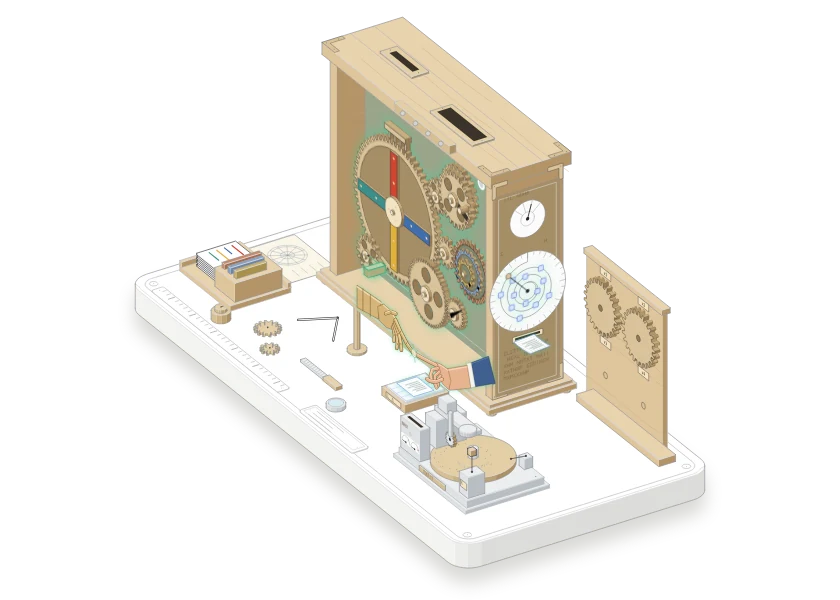
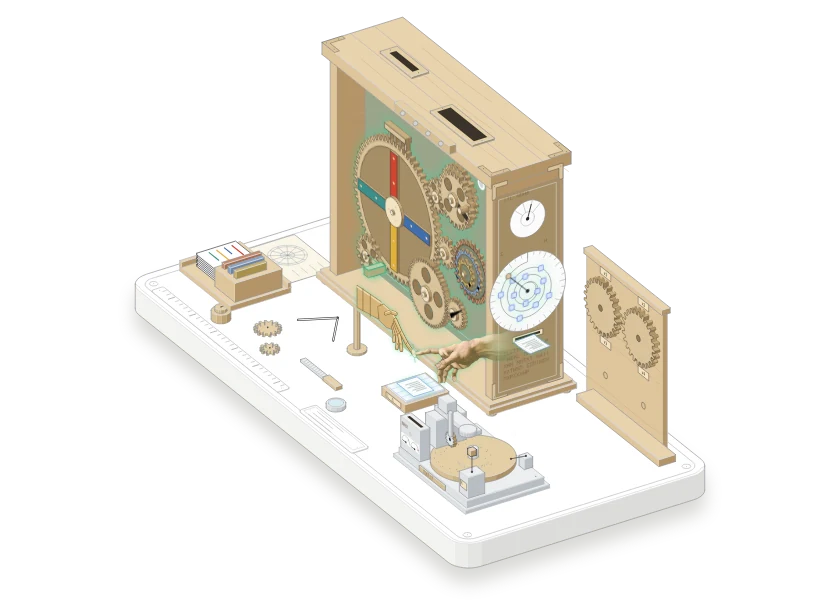
Lecteur VRE : la main de l'agent (Human-in-the-Loop) est la main détourée de la fresque, posée à plat face au spectateur
Figure SVG et machine 3D (panneau toujours face à la caméra), ancrée au bout de l'index ; la main vectorielle et le modèle 3D de l'agent sont supprimés. Correctif 3D : une feuille entièrement entrée dans une fente est masquée.

Claude-Session: https://claude.ai/code/session_01LkExX7823QtQq9wQQ73LZ2

Changed region(s): [[0.4952, 0.54, 0.619, 0.66]]

diff --git a/figures/vrestudio-anticythere.html b/figures/vrestudio-anticythere.html
@@ -179,8 +179,7 @@ body{margin:0;background:var(--anatomy-page);color:var(--anatomy-text);font:14px
 .ak-stamp-ok{fill:rgba(53,169,116,.28);stroke:#35a974;stroke-width:.55}.ak-stamp-bad{fill:rgba(210,69,47,.28);stroke:#d2452f;stroke-width:.55}.ak-stamp-fix{fill:rgba(224,163,58,.32);stroke:#e0a33a;stroke-width:.55}
 .ak-lightgrid{fill:none;stroke:#9db6ea;stroke-width:.3}
 .mat-light{--anatomy-face:#eef5ff;--anatomy-top:#f5f9ff;--anatomy-lit-top:#f5f9ff;--anatomy-shade-0:#c9d8ee;--anatomy-shade-1:#d6e2f3;--anatomy-shade-2:#e2ebf8;--anatomy-shade-3:#eef5ff}
-.hd-skin{fill:#e7b48f;stroke:#8c5a3c;stroke-width:.4;stroke-linejoin:round}.hd-bronze{fill:#d6b57a;stroke:#6e5228;stroke-width:.4;stroke-linejoin:round}
-.hd-sleeve{fill:#3f5f8f;stroke:#22324d;stroke-width:.4;stroke-linejoin:round}.hd-cuff{fill:#f4f3ee;stroke:#9a9890;stroke-width:.35}
+.hd-bronze{fill:#d6b57a;stroke:#6e5228;stroke-width:.4;stroke-linejoin:round}
 .hd-ol-skin,.hd-fill-skin,.hd-hi-skin,.hd-ol-bronze,.hd-fill-bronze,.hd-hi-bronze,.hd-hi-sleeve{fill:none;stroke-linecap:round;stroke-linejoin:round}
 .hd-ol-skin{stroke:#8c5a3c}.hd-fill-skin{stroke:#e7b48f}.hd-hi-skin{stroke:#f6d3b8}.hd-ol-bronze{stroke:#6e5228}.hd-fill-bronze{stroke:#d6b57a}.hd-hi-bronze{stroke:#f1dcae}.hd-hi-sleeve{stroke:#5b7db0}
 .hd-nail-skin{fill:#f8dccb;stroke:#b98a6c;stroke-width:.2}.hd-nail-bronze{fill:#efdcb0;stroke:#8a6a36;stroke-width:.2}.hd-rivet{fill:#8a6a36}
@@ -971,13 +970,9 @@ const HANDS = {
     palm: [[-11.6, 8.6], [-15, 10.2], [-20, 10.4], [-24, 7.4], [-23, 2.2], [-18, 1.6], [-14.5, 2.6], [-12.6, 5.4]],
     arm: [[-21.6, 10.6], [-38, 9.4], [-38, 0.2], [-23.6, 2.4]],
   },
-  human: {
-    fingers: [{ w: 1.7, pts: [[17.5, -0.6], [15.4, -3], [15.8, -5.6]] }, { w: 1.9, pts: [[16.6, 0.6], [13.6, -2.4], [13.6, -5.6], [14.8, -6.8]] },
-      { w: 2, pts: [[15.6, 1.6], [11.8, -0.8], [10.6, -4], [11.8, -5.8]] }, { w: 2.2, pts: [[18.5, -1.6], [14.4, -4.6], [10.4, -6.2], [8.2, -6.4]] }, { w: 2.1, pts: [[14.6, 2.4], [9.6, 1.5], [4.8, 0.7], [0, 0]] }],
-    palm: [[13.8, 3.4], [18, 4.4], [22.5, 4.6], [24.5, 0.8], [23, -3.6], [19.6, -3.4], [16.5, -2.2], [14, 0.2]],
-    arm: [[22, 4.6], [35.5, 12.6], [38, 4.4], [23.5, -3.6]], cuff: [[35, 13.2], [38.2, 15], [41, 6.4], [37.6, 4.2]], sleeve: [[38.2, 15], [50, 23.5], [54.5, 14.5], [41, 6.4]],
-  },
 };
+// la main de l'agent est l'image détourée assets/figures/main-agent.webp (360 × 192 px, index au pixel tip), k unités par pixel
+const AGENT = { w: 360, h: 192, tip: [0, 91], k: 0.17 };
 const HANDS_K = 1.4;                                      // échelle des deux mains
 for (const H of Object.values(HANDS)) for (const [k, v] of Object.entries(H)) {
   if (k === 'fingers') v.forEach((f) => { f.w *= HANDS_K; f.pts = f.pts.map(([u, z]) => [u * HANDS_K, z * HANDS_K]); });
@@ -1149,9 +1144,9 @@ function oldInFlight(o) {
   return { c: bez([g.u, FY, ABOVE], [g.u + 30, FY + 4, ABOVE + 30], [bu - 10, BOARD.y + 6, bz + 70], [bu, BOARD.y, bz], e) };
 }
 
-return { TAU, CASE, MECH_Y, FY, GEARS, phases, DIAL, CELLS, TRAY, CORPUS_TOP, DIV, GAUGE, LEVER, HATCH, BOARD, LID_Z, ABOVE, T, LOOP_T, TS, STATIONS, stationAt, SHEETS, sheetPose, sheetRows, sheetTrail, stateAt, pinInCase, newInFlight, oldInFlight, handsAt, stampOf, HANDS };
+return { TAU, CASE, MECH_Y, FY, GEARS, phases, DIAL, CELLS, TRAY, CORPUS_TOP, DIV, GAUGE, LEVER, HATCH, BOARD, LID_Z, ABOVE, T, LOOP_T, TS, STATIONS, stationAt, SHEETS, sheetPose, sheetRows, sheetTrail, stateAt, pinInCase, newInFlight, oldInFlight, handsAt, stampOf, HANDS, AGENT };
 })();
-const { TAU, CASE, MECH_Y, FY, GEARS, DIAL, CELLS, TRAY, DIV, GAUGE, LEVER, BOARD, LID_Z, T, LOOP_T, TS, STATIONS, stationAt, SHEETS, sheetPose, sheetRows, sheetTrail, stateAt, pinInCase, newInFlight, oldInFlight, handsAt, stampOf, HANDS } = MODEL;
+const { TAU, CASE, MECH_Y, FY, GEARS, DIAL, CELLS, TRAY, DIV, GAUGE, LEVER, BOARD, LID_Z, T, LOOP_T, TS, STATIONS, stationAt, SHEETS, sheetPose, sheetRows, sheetTrail, stateAt, pinInCase, newInFlight, oldInFlight, handsAt, stampOf, HANDS, AGENT } = MODEL;
 const PH = MODEL.phases(false), LAMPS = [[2,3.1,135.5],[14,3.1,135.5],[26,3.1,135.5],[38,3.1,135.5]], RW = GEARS.pin.r;
 
 const stage = document.querySelector(".iso-stage"), svg = stage.querySelector("svg");
@@ -1284,7 +1279,6 @@ function handPaint(H, tip, m) {
   const poly = (pts, c) => '<path class="' + c + '" d="M' + pts.map(P2).join("L") + 'Z"/>';
   const line = (pts, c, w, dz = 0) => '<path class="' + c + '" stroke-width="' + f2(w) + '" d="M' + pts.map((q) => P2([q[0], q[1] + dz])).join("L") + '"/>';
   let out = "";
-  if (H.sleeve) out += poly(H.sleeve, "hd-sleeve") + line(H.sleeve.slice(0, 2), "hd-hi-sleeve", 0.8, -0.6) + poly(H.cuff, "hd-cuff");
   out += poly(H.arm, "hd-" + m) + line(H.arm.slice(0, 2), "hd-hi-" + m, 1.4, -0.9);
   if (m === "bronze") { const K = 1.4; out += [-29, -34].map((u) => line([[u * K, 9.9 * K], [u * K, 0.9 * K]], "hd-ol-bronze", 0.5)).join(""); }
   out += poly(H.palm, "hd-" + m) + line(H.palm.slice(0, 3), "hd-hi-" + m, 1.1, -0.7);
@@ -1297,13 +1291,17 @@ function handPaint(H, tip, m) {
   return out;
 }
 function handsSvg(s) {
-  const h = handsAt(s); let out = handPaint(HANDS.machine, h.machine, "bronze");
+  const h = handsAt(s); let out = handPaint(HANDS.machine, h.machine, "bronze"), agent = null;
   if (h.human) {
-    out += handPaint(HANDS.human, h.human, "skin");
+    // la main de l'agent : la main détourée de la fresque, posée à plat face au spectateur, l'index au point de contact (calque d'écran)
+    agent = h.human;
     if (h.press > 0.35) { const cx = (h.machine[0] + h.human[0]) / 2, cz = h.machine[2] + 0.1, r = 0.8 + 2.2 * h.press;
       out += '<g class="ak-spark ak-spark-' + h.kind + '" style="opacity:' + h.press.toFixed(2) + '"><path d="' + circ(r, cx, -cz) + '"/>' + [0, 1, 2, 3, 4, 5].map((i) => { const a = i * Math.PI / 3 + 0.3; return '<path d="M' + f2(cx + (r + 0.6) * Math.cos(a)) + ' ' + f2(-cz + (r + 0.6) * Math.sin(a)) + 'L' + f2(cx + (r + 2.6) * Math.cos(a)) + ' ' + f2(-cz + (r + 2.6) * Math.sin(a)) + '"/>'; }).join("") + '</g>'; }
   }
-  return '<g transform="' + front(h.machine[1]) + '">' + out + '</g>';
+  let img = "";
+  if (agent) { const q = at(agent), sv = Math.hypot(...[0, 1].map((i) => at([agent[0], agent[1], agent[2] + 10])[i] - q[i])) / 10, k = AGENT.k * sv;
+    img = '<image href="../assets/figures/main-agent.webp" x="' + f2(q[0] - AGENT.tip[0] * k) + '" y="' + f2(q[1] - AGENT.tip[1] * k) + '" width="' + f2(AGENT.w * k) + '" height="' + f2(AGENT.h * k) + '"/>'; }
+  return '<g transform="' + front(h.machine[1]) + '">' + out + '</g>' + img;
 }
 
 function draw(o, s) {

diff --git a/refonte/m3d/vrestudio.js b/refonte/m3d/vrestudio.js
@@ -5,7 +5,7 @@
 // le banc d'essai la juge sur deux rapports séparés ; le levier la publie : l'ancienne roue du modèle sort par la trappe, la nouvelle descend.
 import * as THREE from 'three';
 import { COL, mat, slab, box, cyl, cylX, cylY, group, bench, finish } from './core.js';
-import { TAU, CASE, MECH_Y, FY, GEARS, phases, DIAL, CELLS, TRAY, CORPUS_TOP, DIV, GAUGE, LEVER, HATCH, BOARD, LID_Z, T, LOOP_T, TS, STATIONS, stationAt, SHEETS, sheetPose, sheetRows, sheetTrail, stateAt, pinInCase, newInFlight, oldInFlight, handsAt, stampOf, DESK, HANDS, HANDS_Y, HANDS_K, ELBOW } from './anticythere-model.js';
+import { TAU, CASE, MECH_Y, FY, GEARS, phases, DIAL, CELLS, TRAY, CORPUS_TOP, DIV, GAUGE, LEVER, HATCH, BOARD, LID_Z, T, LOOP_T, TS, STATIONS, stationAt, SHEETS, sheetPose, sheetRows, sheetTrail, stateAt, pinInCase, newInFlight, oldInFlight, handsAt, stampOf, DESK, HANDS, HANDS_Y, AGENT, ELBOW } from './anticythere-model.js';
 
 export const WIDTH = 318;
 const PLATE = { x: -128, y: -64, w: 318, d: 150, r: 12 };
@@ -113,7 +113,6 @@ export function build() {
   // « La Création d'Adam » : la main de bronze de l'automate (sur sa potence) et la main de l'agent ; elles vivent dans le plan y = HANDS_Y
   const handGroup = (H, m, skinM) => {
     const g2 = new THREE.Group(), slab2 = (pts, mm, depth) => { const sh = new THREE.Shape(); pts.forEach(([u, z], i) => (i ? sh.lineTo(u, z) : sh.moveTo(u, z))); sh.closePath(); const geo = new THREE.ExtrudeGeometry(sh, { depth, bevelEnabled: true, bevelThickness: .5, bevelSize: .5, bevelSegments: 2 }); geo.translate(0, 0, -depth / 2); const o = finish(geo, mm, 40); g2.add(o); };
-    if (H.sleeve) { slab2(H.sleeve, mat('#3f5f8f', { roughness: .8 }), 6.4); slab2(H.cuff, mat('#f4f3ee'), 6.8); }
     slab2(H.arm, skinM, 5); slab2(H.palm, skinM, 4.2);
     for (const f of H.fingers) {
       const r = f.w / 2;
@@ -125,15 +124,11 @@ export function build() {
   };
   const bronzeHand = mat(C.bronze, { metalness: .35, roughness: .45 });
   const handM = handGroup(HANDS.machine, 'bronze', bronzeHand);
-  // la main de l'agent : la main de la fresque, découpée et posée à plat, imprimée recto verso (une découpe vue de dos montre la main en miroir)
+  // la main de l'agent : la main détourée de la fresque, à plat et toujours face au spectateur, ancrée au bout de l'index
   const handH = new THREE.Group(); add(handH);
-  { const tex = new THREE.TextureLoader().load('assets/figures/main-adam.webp'); tex.colorSpace = THREE.SRGBColorSpace; tex.anisotropy = 4;
-    const PX = 509, PY = 227, TIP = [4, 92], k = 0.112 * HANDS_K, w = PX * k, hh = PY * k;
-    const geo = new THREE.PlaneGeometry(w, hh).translate(w / 2 - TIP[0] * k, -(hh / 2 - TIP[1] * k), 0);
-    const face = new THREE.Mesh(geo, new THREE.MeshStandardMaterial({ map: tex, emissiveMap: tex, emissive: '#ffffff', emissiveIntensity: .32, roughness: 1, alphaTest: .45, side: THREE.DoubleSide }));
-    face.castShadow = true; face.customDepthMaterial = new THREE.MeshDepthMaterial({ depthPacking: THREE.RGBADepthPacking, map: tex, alphaTest: .45 });
-    face.rotation.z = 0.36;                                        // le bras monte vers la droite, comme sur la fresque
-    handH.add(face); }
+  { const tex = new THREE.TextureLoader().load('assets/figures/main-agent.webp'); tex.colorSpace = THREE.SRGBColorSpace;
+    const { w, h: hh, tip, k } = AGENT, sp = new THREE.Sprite(new THREE.SpriteMaterial({ map: tex, alphaTest: .4 }));
+    sp.center.set(tip[0] / w, 1 - tip[1] / hh); sp.scale.set(w * k, hh * k, 1); handH.add(sp); }
   add(cyl(ELBOW[0], ELBOW[1], 5, 0, 1.6, C.bronze, 28), cyl(ELBOW[0], ELBOW[1], 1.6, 1.6, ELBOW[2] - 6, C.bronze, 18), cyl(ELBOW[0], ELBOW[1], 2.6, ELBOW[2] - 4.4, 2.4, C.bronzeLo, 20));
   const sparkM = new THREE.MeshBasicMaterial({ color: '#fff3b0', transparent: true }), spark = new THREE.Mesh(new THREE.SphereGeometry(1, 16, 12), sparkM); add(spark);
   // ---- machine à diviser : plateau, axe, couteau ; banc d'essai ; levier de publication ----
@@ -199,6 +194,7 @@ export function build() {
   function placeSheet(S, s) {
     const p = sheetPose(S.q, s); S.grp.visible = !!p; if (!p) return;
     const rows = sheetRows(p, NT), pos = S.geo.attributes.position.array, opos = S.og.attributes.position.array;
+    if (rows.length < 2) { S.grp.visible = false; return; }                // entièrement entrée dans une fente
     for (let i = 0; i <= NT; i++) { const r = rows[Math.min(i, rows.length - 1)]; pos.set(V(r[0]), i * 6); pos.set(V(r[1]), i * 6 + 3); }
     const ring = rows.map((r) => r[0]).concat(rows.map((r) => r[1]).reverse(), [rows[0][0]]);
     for (let i = 0; i < 2 * (NT + 1) + 1; i++) opos.set(V(ring[Math.min(i, ring.length - 1)]), i * 3);

diff --git a/refonte/m3d/anticythere-model.js b/refonte/m3d/anticythere-model.js
@@ -86,13 +86,9 @@ export const HANDS = {
     palm: [[-11.6, 8.6], [-15, 10.2], [-20, 10.4], [-24, 7.4], [-23, 2.2], [-18, 1.6], [-14.5, 2.6], [-12.6, 5.4]],
     arm: [[-21.6, 10.6], [-38, 9.4], [-38, 0.2], [-23.6, 2.4]],
   },
-  human: {
-    fingers: [{ w: 1.7, pts: [[17.5, -0.6], [15.4, -3], [15.8, -5.6]] }, { w: 1.9, pts: [[16.6, 0.6], [13.6, -2.4], [13.6, -5.6], [14.8, -6.8]] },
-      { w: 2, pts: [[15.6, 1.6], [11.8, -0.8], [10.6, -4], [11.8, -5.8]] }, { w: 2.2, pts: [[18.5, -1.6], [14.4, -4.6], [10.4, -6.2], [8.2, -6.4]] }, { w: 2.1, pts: [[14.6, 2.4], [9.6, 1.5], [4.8, 0.7], [0, 0]] }],
-    palm: [[13.8, 3.4], [18, 4.4], [22.5, 4.6], [24.5, 0.8], [23, -3.6], [19.6, -3.4], [16.5, -2.2], [14, 0.2]],
-    arm: [[22, 4.6], [35.5, 12.6], [38, 4.4], [23.5, -3.6]], cuff: [[35, 13.2], [38.2, 15], [41, 6.4], [37.6, 4.2]], sleeve: [[38.2, 15], [50, 23.5], [54.5, 14.5], [41, 6.4]],
-  },
 };
+// la main de l'agent est l'image détourée assets/figures/main-agent.webp (360 × 192 px, index au pixel tip), k unités par pixel
+export const AGENT = { w: 360, h: 192, tip: [0, 91], k: 0.17 };
 export const HANDS_K = 1.4;                                      // échelle des deux mains
 for (const H of Object.values(HANDS)) for (const [k, v] of Object.entries(H)) {
   if (k === 'fingers') v.forEach((f) => { f.w *= HANDS_K; f.pts = f.pts.map(([u, z]) => [u * HANDS_K, z * HANDS_K]); });
